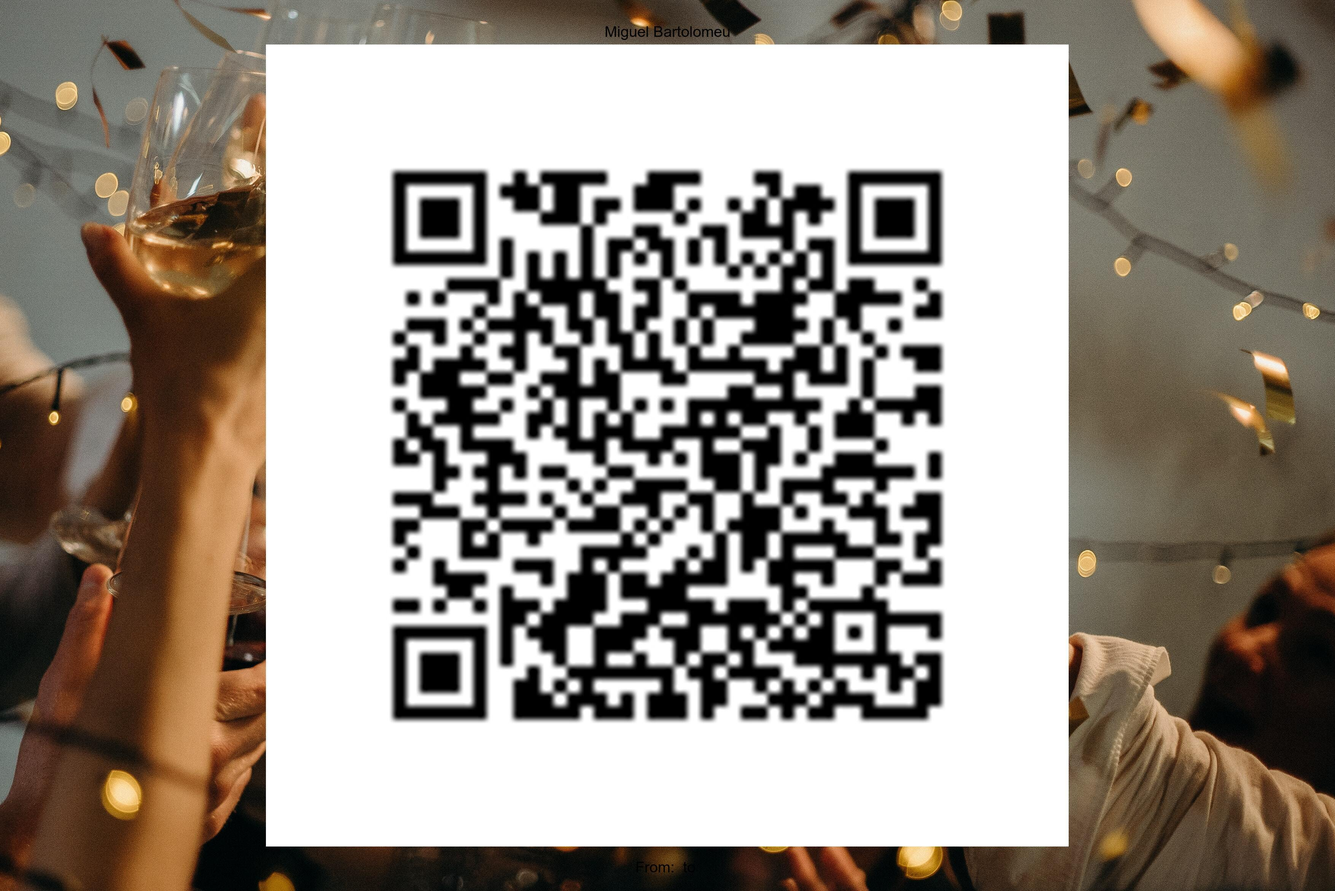
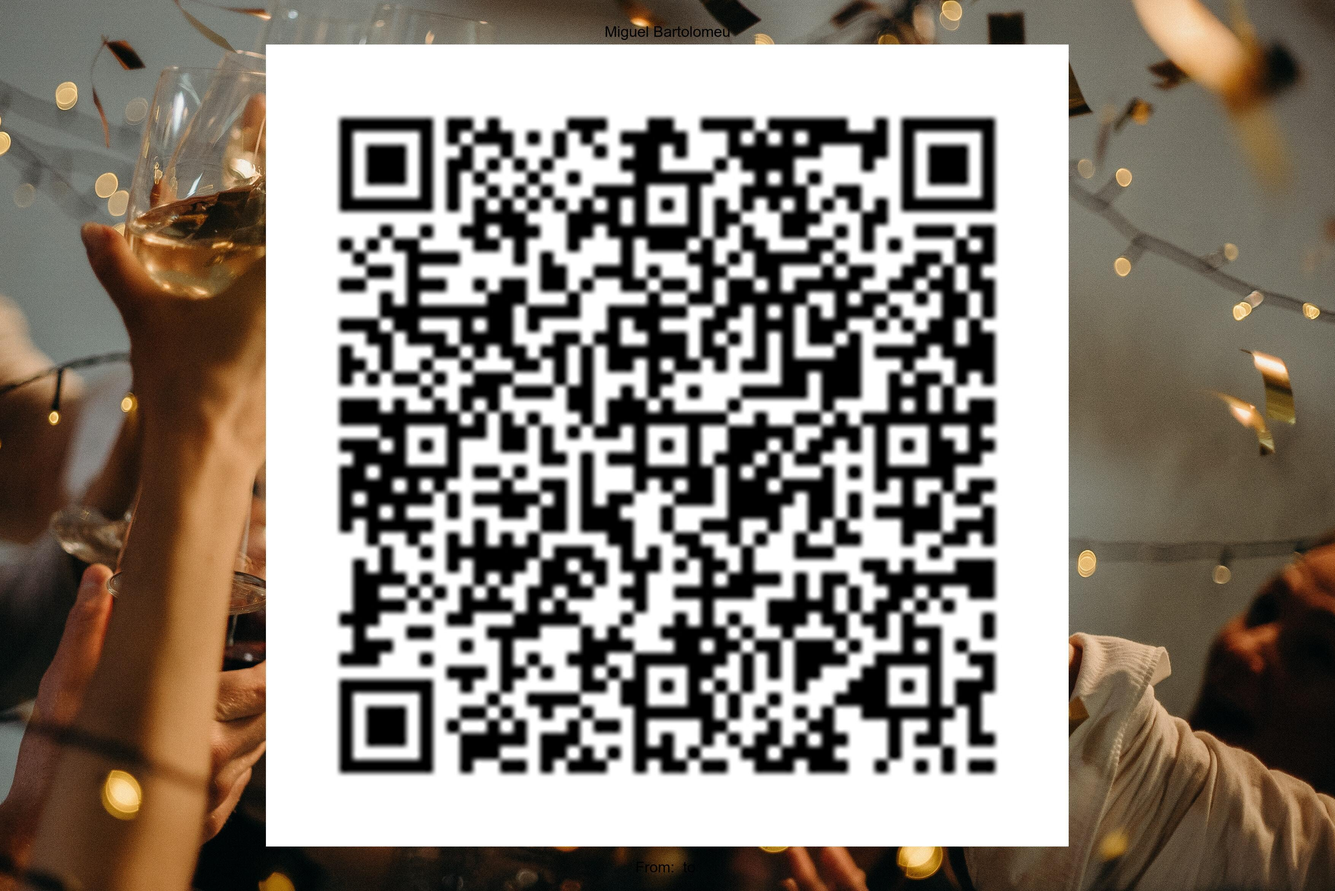
validation page

Changed region(s): [[0.2485, 0.1246, 0.7455, 0.872]]

diff --git a/app/controllers/user_tickets_controller.rb b/app/controllers/user_tickets_controller.rb
@@ -1,6 +1,6 @@
 class UserTicketsController < ApplicationController
   before_action :set_ticket, only: [:edit, :update, :show, :new, :create]
-  before_action :set_user_ticket, only: [:edit, :update, :show, :destroy]
+  before_action :set_user_ticket, only: [:edit, :update, :show, :destroy, :confirmation, :validation]
 
   def index
   end
@@ -22,7 +22,7 @@ class UserTicketsController < ApplicationController
 
     if @user_ticket.save!
     ##QR CODE
-        link = ticket_user_ticket_url(ticket_id: @ticket.id, id: @user_ticket.user.id)
+        link = validation_page_url(ticket_id: @ticket.id, id: @user_ticket.user.id)
         qrcode = RQRCode::QRCode.new(link)
         png = qrcode.as_png(
           bit_depth: 1,
@@ -101,9 +101,11 @@ class UserTicketsController < ApplicationController
   end
 
   def confirmation
+    authorize @user_ticket
   end
 
   def validation
+    authorize @user_ticket
   end
 
   private

diff --git a/config/routes.rb b/config/routes.rb
@@ -23,6 +23,6 @@ end
   get "my_events", to: "events#my_events", as: :my_events
   get "events_owned", to: "events#events_owned", as: :events_owned
   get "communities/:id/dashboard", to: "communities#dashboard", as: :dashboard
-  get "tickets/:id/user:ticket/confirmation", to: "user_ticket#confirmation", as: :confirmation_page
-  get "tickets/:id/user:ticket/validation", to: "user_ticket#validation", as: :validation_page
+  get "user_tickets/:id/confirmation", to: "user_tickets#confirmation", as: :confirmation_page
+  get "user_tickets/:id/validation", to: "user_tickets#validation", as: :validation_page
 end

diff --git a/app/policies/user_ticket_policy.rb b/app/policies/user_ticket_policy.rb
@@ -29,11 +29,12 @@ class UserTicketPolicy < ApplicationPolicy
     true
   end
 
-  def confirmation
+  def confirmation?
     true
   end
 
-  def validation
+  def validation?
     true
   end
+
 end
